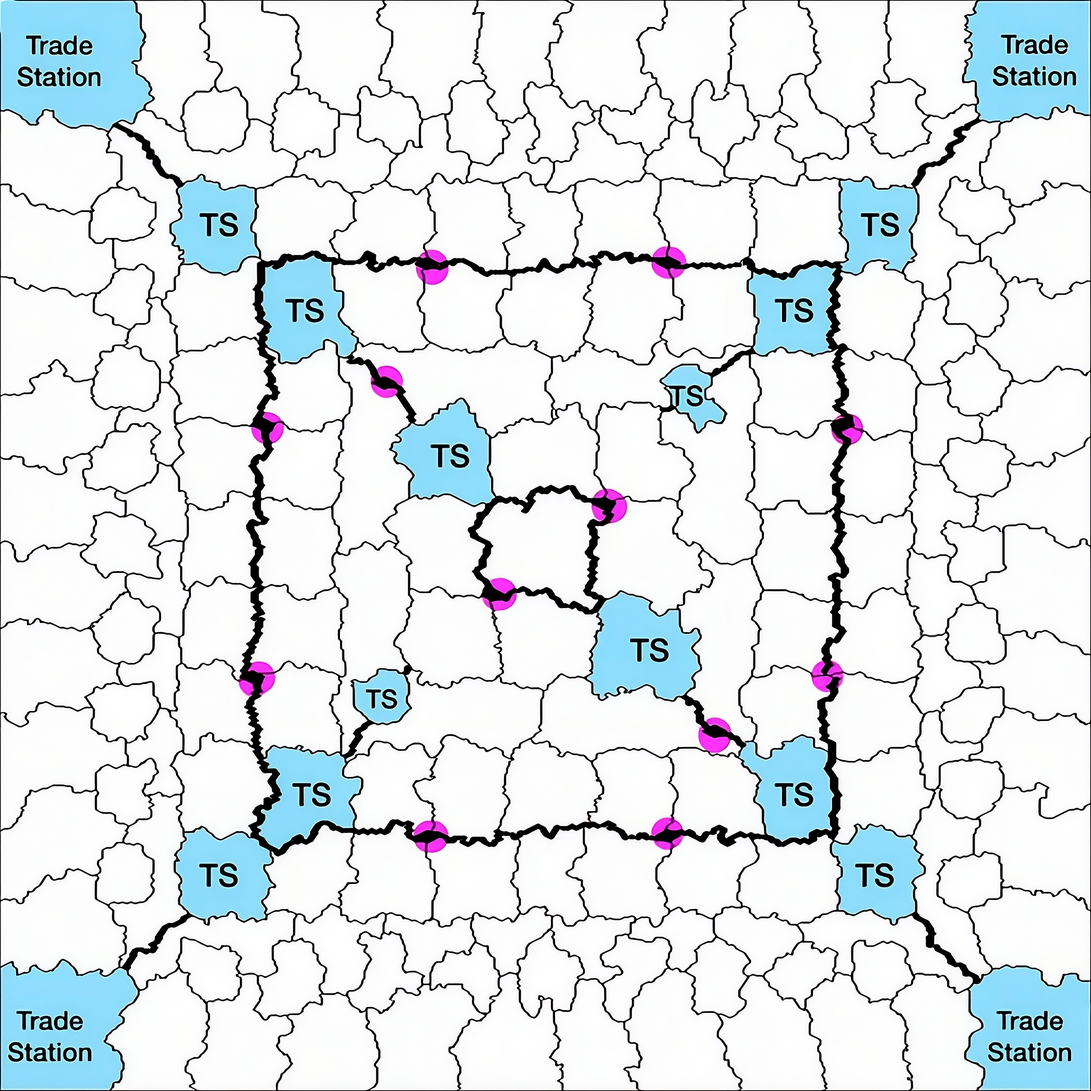
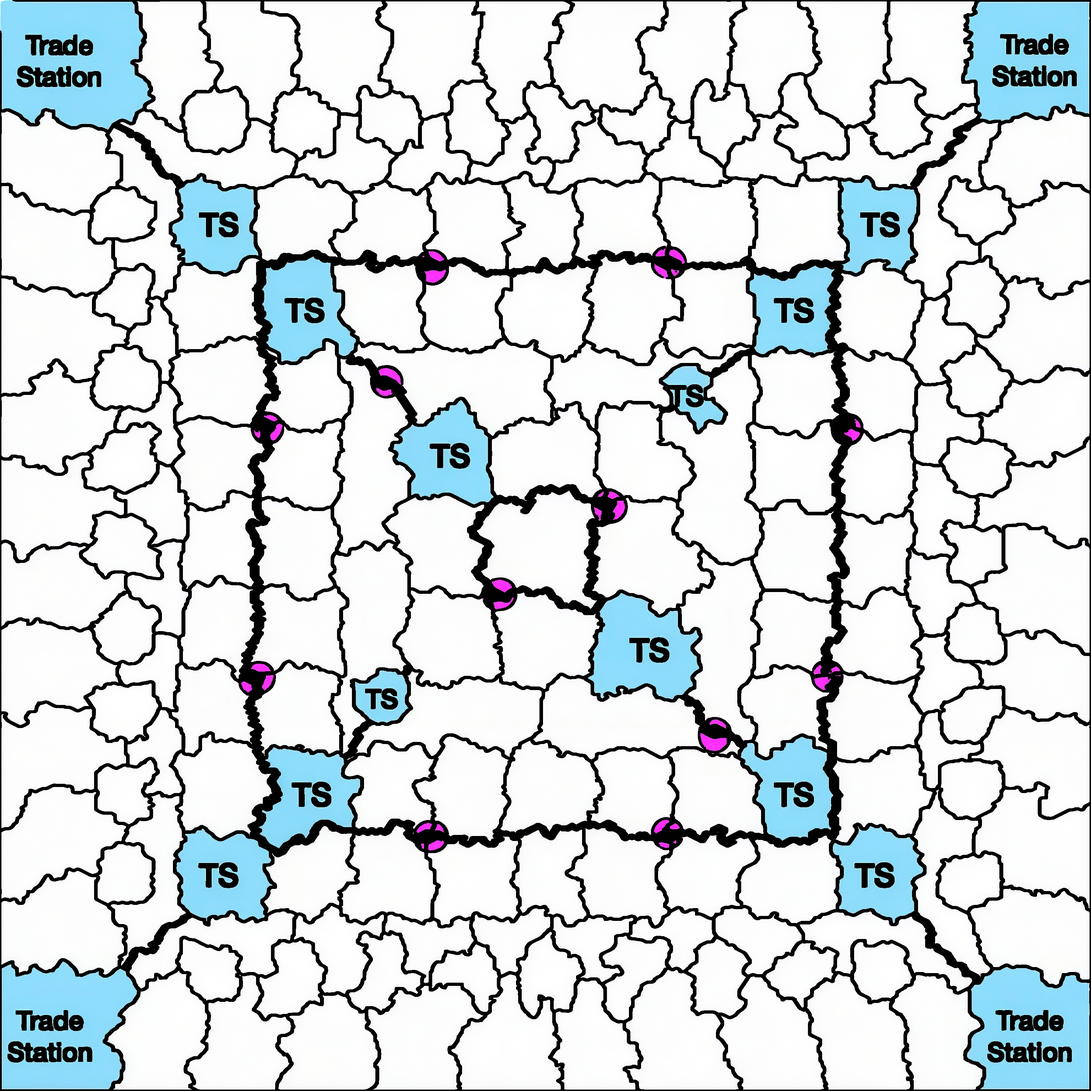
gunce

diff --git a/index.html b/index.html
@@ -40,11 +40,17 @@
         var BOYA_YOGUNLUGU = 0.75;          // 0-1 arası. 1 = tamamen kaplayıcı renk, 0.5 = yarı saydam.
         var MAX_PIKSEL = 150000;            // Güvenlik limiti: bir bölge bu kadar pikselden fazla yayılırsa durur.
 
-        var YAZI_MIN_BOYUT = 10;            // En küçük ittifak adı yazı boyutu (px). Bundan küçükse etiket hiç çizilmez.
-        var YAZI_MAX_BOYUT = 90;            // En büyük ittifak adı yazı boyutu (px).
-        var YAZI_TABAN_ORANI = 0.28;        // Bölge büyüklüğüne göre taban yazı boyutu çarpanı (ince ayar için).
-        var YAZI_GENISLIK_PAYI = 0.85;      // Yazı bloğu, bölge genişliğinin en fazla bu oranını kaplasın (taşmayı önler).
-        var FRAKSIYON_ORANI = 0.55;         // Faction yazısı, Alliance adı yazısının bu oranında (daha küçük) olsun.
+        // YENİ: sızıntı önleme ayarı
+        var SINIR_GENISLETME = 1;           // Sınır çizgilerini bu kadar piksel kalınlaştır (küçük kopuklukları kapatır).
+                                             // harita.jpg zaten önceden düzeltildiği için burada az yeterli.
+                                             // Boya HALA sızıyorsa bu sayıyı büyüt (3, 4...).
+                                             // Boya çok küçük kalıyorsa / hiç boyamıyorsa bu sayıyı küçült (1, 0).
+
+        var YAZI_MIN_BOYUT = 10;
+        var YAZI_MAX_BOYUT = 90;
+        var YAZI_TABAN_ORANI = 0.28;
+        var YAZI_GENISLIK_PAYI = 0.85;
+        var FRAKSIYON_ORANI = 0.55;
 
         var tabloLinki = 'https://docs.google.com/spreadsheets/d/e/2PACX-1vS2-GK0VTqd-f9n3oWUJFkdSV-NW2l3yXd2ZPJQOPWI3hZac7I86_V_tfGfhUYORCrLscA66gz0TRnN/pub?output=csv';
 
@@ -55,8 +61,8 @@
         var bounds = [[0, 0], [HARITA_BOYUTU, HARITA_BOYUTU]];
         map.fitBounds(bounds);
 
-        var ittifakBilgileri = [];   // index -> {alliance, faction, popupHtml, istatistik}
-        var sahiplikHaritasi = null; // Int32Array: her piksel hangi ittifağa ait (-1 = kimseye ait değil)
+        var ittifakBilgileri = [];
+        var sahiplikHaritasi = null;
 
         var baseImg = new Image();
         var csvData = null;
@@ -94,7 +100,7 @@
         });
 
         // ============================================================
-        // RENK ÇÖZÜMLEME (hex ya da renk ismi -> {r,g,b})
+        // RENK ÇÖZÜMLEME
         // ============================================================
         function hexToRgb(renk) {
             var tmp = document.createElement('canvas').getContext('2d');
@@ -106,10 +112,57 @@
         }
 
         // ============================================================
-        // BOYA KOVASI (flood fill) ALGORİTMASI
-        // İstatistikleri (merkez noktası + kapladığı alan) de aynı anda topluyor
+        // YENİ: SINIR MASKESİ OLUŞTURMA + GENİŞLETME (dilation)
+        // Küçük kopuklukları kapatmak için sınır çizgilerini yapay olarak kalınlaştırıyoruz.
         // ============================================================
-        function bolgeyiDoldur(pixels, sahiplik, boyut, baslangicX, baslangicY, rgb, sahipIndex, istatistik) {
+        function sinirMaskesiOlustur(pixels, boyut) {
+            var maske = new Uint8Array(boyut * boyut);
+            for (var i = 0; i < boyut * boyut; i++) {
+                var p = i * 4;
+                var parlaklik = (pixels[p] + pixels[p + 1] + pixels[p + 2]) / 3;
+                maske[i] = parlaklik < PARLAKLIK_ESIGI ? 1 : 0;
+            }
+            return maske;
+        }
+
+        function maskeGenislet(maske, boyut, yaricap) {
+            if (yaricap <= 0) return maske;
+
+            // yatay geçiş
+            var gecici = new Uint8Array(boyut * boyut);
+            for (var y = 0; y < boyut; y++) {
+                var satirBaslangic = y * boyut;
+                for (var x = 0; x < boyut; x++) {
+                    var v = 0;
+                    var altSinir = Math.max(0, x - yaricap);
+                    var ustSinir = Math.min(boyut - 1, x + yaricap);
+                    for (var nx = altSinir; nx <= ustSinir; nx++) {
+                        if (maske[satirBaslangic + nx]) { v = 1; break; }
+                    }
+                    gecici[satirBaslangic + x] = v;
+                }
+            }
+
+            // dikey geçiş
+            var sonuc = new Uint8Array(boyut * boyut);
+            for (var x = 0; x < boyut; x++) {
+                for (var y = 0; y < boyut; y++) {
+                    var v = 0;
+                    var altSinirY = Math.max(0, y - yaricap);
+                    var ustSinirY = Math.min(boyut - 1, y + yaricap);
+                    for (var ny = altSinirY; ny <= ustSinirY; ny++) {
+                        if (gecici[ny * boyut + x]) { v = 1; break; }
+                    }
+                    sonuc[y * boyut + x] = v;
+                }
+            }
+            return sonuc;
+        }
+
+        // ============================================================
+        // BOYA KOVASI (flood fill) — artık genişletilmiş sınır maskesine bakıyor
+        // ============================================================
+        function bolgeyiDoldur(pixels, sinirMaskesi, sahiplik, boyut, baslangicX, baslangicY, rgb, sahipIndex, istatistik) {
             var ziyaretEdildi = new Uint8Array(boyut * boyut);
             var yigin = [[baslangicX, baslangicY]];
             var sayac = 0;
@@ -123,12 +176,11 @@
                 if (ziyaretEdildi[idx1D]) continue;
                 ziyaretEdildi[idx1D] = 1;
 
-                if (sahiplik[idx1D] !== -1) continue; // başka bir ittifağa ait, dur
+                if (sahiplik[idx1D] !== -1) continue;   // başka bir ittifağa ait, dur
+                if (sinirMaskesi[idx1D]) continue;      // genişletilmiş sınır çizgisi, dur
 
                 var idxPixel = idx1D * 4;
                 var r = pixels[idxPixel], g = pixels[idxPixel + 1], b = pixels[idxPixel + 2];
-                var parlaklik = (r + g + b) / 3;
-                if (parlaklik < PARLAKLIK_ESIGI) continue; // koyu/sınır çizgisi, dur
 
                 pixels[idxPixel]     = Math.round(r * (1 - BOYA_YOGUNLUGU) + rgb.r * BOYA_YOGUNLUGU);
                 pixels[idxPixel + 1] = Math.round(g * (1 - BOYA_YOGUNLUGU) + rgb.g * BOYA_YOGUNLUGU);
@@ -150,13 +202,15 @@
                 yigin.push([px, py - 1]);
             }
 
-            if (sayac >= MAX_PIKSEL) {
-                console.warn("UYARI: (" + baslangicX + "," + baslangicY + ") noktasındaki boyama güvenlik limitine ulaştı (" + MAX_PIKSEL + " piksel). PARLAKLIK_ESIGI değerini küçültmeyi dene.");
+            if (sayac === 0) {
+                console.warn("UYARI: (" + baslangicX + "," + baslangicY + ") noktası tam sınır çizgisinin üstüne denk geldi, hiç boyanmadı. Koordinatı 5-10 piksel içeri al.");
+            } else if (sayac >= MAX_PIKSEL) {
+                console.warn("UYARI: (" + baslangicX + "," + baslangicY + ") noktasındaki boyama güvenlik limitine ulaştı (" + MAX_PIKSEL + " piksel). SINIR_GENISLETME değerini büyütmeyi dene.");
             }
         }
 
         // ============================================================
-        // Her renkte görünür, elle çizilmiş küçük bayrak ikonu
+        // Bayrak ikonu
         // ============================================================
         function bayrakCiz(ctx, x, y, boyut) {
             var direkYuksekligi = boyut * 1.05;
@@ -190,7 +244,7 @@
         }
 
         // ============================================================
-        // ETİKET ÇİZİMİ: üstte Faction (küçük), altta bayrak + tam Alliance adı
+        // ETİKET ÇİZİMİ
         // ============================================================
         function etiketCiz(ctx, allianceAdi, faction, istatistik) {
             if (istatistik.sayim <= 0) return;
@@ -274,7 +328,7 @@
         }
 
         // ============================================================
-        // ANA İŞLEM: resmi canvas'a çiz, her alliance için bölgeyi boya + etiket ekle
+        // ANA İŞLEM
         // ============================================================
         function haritayiOlustur() {
             var canvas = document.createElement('canvas');
@@ -285,6 +339,10 @@
 
             var imgData = ctx.getImageData(0, 0, HARITA_BOYUTU, HARITA_BOYUTU);
             var pixels = imgData.data;
+
+            // 1) Sınır maskesini çıkar ve genişlet (kopuklukları kapat)
+            var sinirMaskesi = sinirMaskesiOlustur(pixels, HARITA_BOYUTU);
+            sinirMaskesi = maskeGenislet(sinirMaskesi, HARITA_BOYUTU, SINIR_GENISLETME);
 
             sahiplikHaritasi = new Int32Array(HARITA_BOYUTU * HARITA_BOYUTU).fill(-1);
 
@@ -300,7 +358,6 @@
                     return '';
                 }
 
-                // Sütun isimleri artık İngilizce: Alliance, Faction, Area, Color, X, Y
                 var allianceAdi = getVal(['Alliance']);
                 var xVal = getVal(['X']);
                 var yVal = getVal(['Y']);
@@ -323,9 +380,8 @@
                     minX: HARITA_BOYUTU, maxX: 0, minY: HARITA_BOYUTU, maxY: 0
                 };
 
-                bolgeyiDoldur(pixels, sahiplikHaritasi, HARITA_BOYUTU, x, y, rgb, sahipIndex, istatistik);
+                bolgeyiDoldur(pixels, sinirMaskesi, sahiplikHaritasi, HARITA_BOYUTU, x, y, rgb, sahipIndex, istatistik);
 
-                // --- Popup içeriği (tıklayınca çıkacak bilgi kartı) ---
                 var popupHtml = `
                     <div style="font-family: sans-serif; min-width: 180px;">
                         <h3 style="margin:0 0 6px 0; border-bottom:2px solid ${renk}; padding-bottom:4px; color:#2c3e50;">🚩 ${allianceAdi}</h3>
@@ -350,7 +406,7 @@
         }
 
         // ============================================================
-        // TIKLAMA: renkli bölgeye tıklarsan bilgi, boş yere tıklarsan koordinat
+        // TIKLAMA
         // ============================================================
         map.on('click', function(e) {
             var tiklananX = Math.round(e.latlng.lng);
